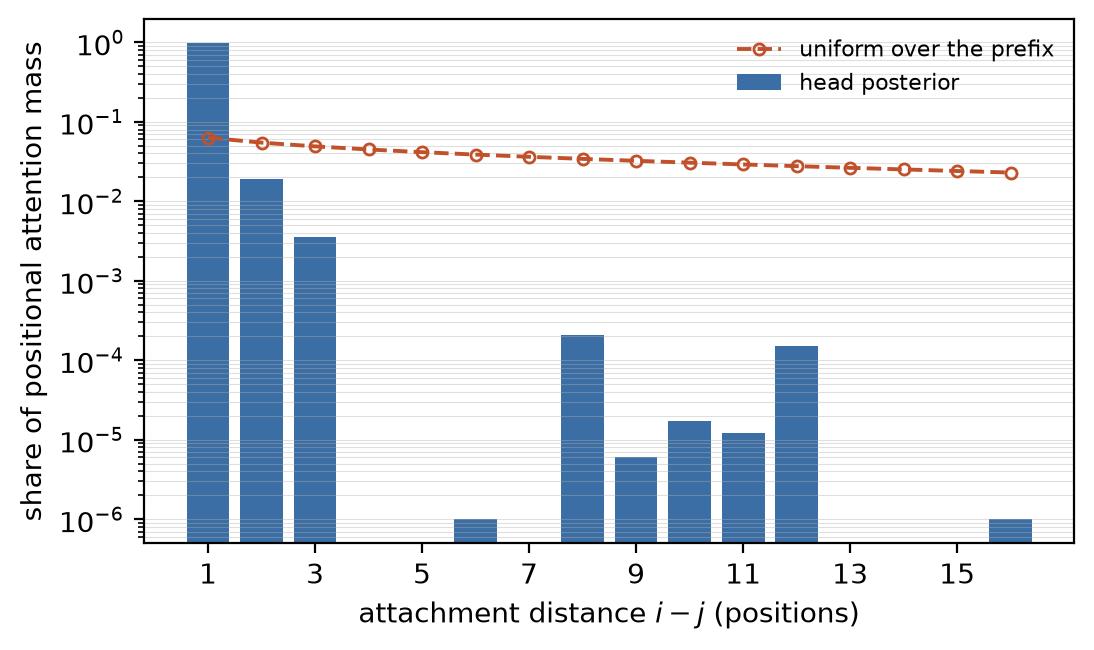
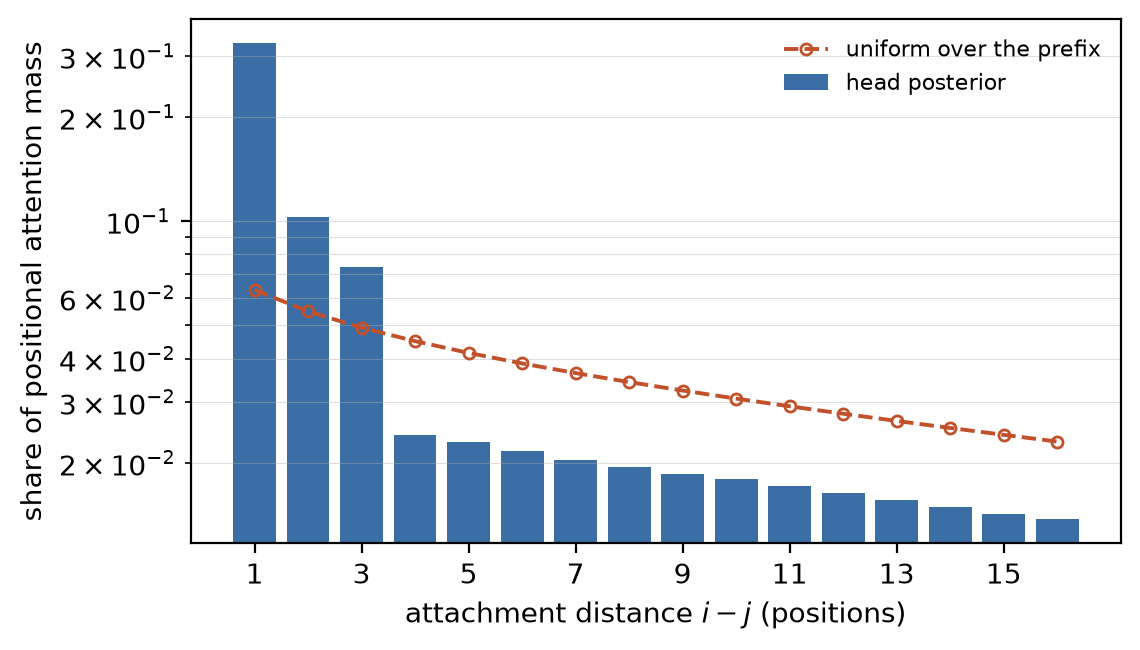
v1.10.0 [fix]: the head-posterior negative result was an artefact of which checkpoint we probed
The interpretability probes were first run on the only trained model that existed when they were
written -- the 2026-08 record (d=32, source head temperature, damped) -- and reported that the
head posterior had collapsed onto the previous word: 0.976 of its positional mass at distance 1,
mean attachment distance 1.05. That went into the Discussion, the Limitations, the introduction
and the conclusion as a negative result about the model class.

Re-run on the configuration this paper actually selects (d=96, rank=12, standardised
temperature), the same probe on the same corpus gives mean attachment distance 11.06 against
17.01 for uniform, 0.497 of the mass beyond distance three, and a prior-to-posterior correlation
of 0.47 rather than 0.16. The model does learn a preference for nearby heads.

Both are now reported side by side, because the difference is the finding: the same probe gives
opposite answers about whether this model class learns dependency structure, and what separates
them is the head temperature and the arc-score rank. The labels run the other way -- readable at
d=32, mostly not at d=96 -- so capacity and interpretability trade off along the width axis and
we did not find a setting where both are best.

diff --git a/paper/sections/F_worked_example.tex b/paper/sections/F_worked_example.tex
@@ -135,44 +135,52 @@ $32$-value bottleneck produced. Not every label is interpretable, and we do not 
 roughly a third of them resist any reading we can offer, which matches what
 \citet{wu2023probabilistic} report for the encoder.
 
-\paragraph{Where the head posterior looks --- a negative result.}
-The head variable is the model's dependency attachment, and this is where the interpretation
-does \emph{not} hold up. Averaged over validation, the posterior puts $0.976$ of its positional
-mass at distance $1$ and $0.486$ of its total mass on \textsc{root}; the mean attachment distance
-is $1.05$. \textbf{The model has learned locality, not dependency structure.} Its attention is a
-bigram attachment with a large sink, which is enough to beat a unigram baseline by a wide margin
-and is not what the construction is for. We report this because it bounds the interpretability
-claim to the label variables, and because it identifies where a reader should look for the next
-improvement: a head posterior that never leaves distance $1$ is not using the arc factors the
-model is built around.
+\paragraph{Where the head posterior looks.}
+The head variable is the model's dependency attachment, and this is where the configuration
+matters more than anything else in this paper. We probed two trained models: the one this
+project's earlier work selected ($\nlab=32$, the source head temperature, damped) and the one
+\Cref{sec:exp-width} selects ($\nlab=96$, $\krank=12$, standardised temperature, undamped).
 
-It does not, however, make the model a bigram. An add-one bigram on this corpus reaches $445.2$
-on the identical token set and the model reaches $217.6$ --- better by a factor of two. The
-resolution is that locality \emph{composes}: the belief at position $t$ is computed from the
-belief at $t-1$, which was itself computed from $t-2$, so $\niter$ iterations of a
-distance-one attachment give a receptive field of $\niter$ positions even though every
-individual attachment is local. What the model has learned is closer to a stack of local
-operators than to a dependency parser, which is a coherent thing to be and is not the thing the
-construction was designed to be.
+\begin{center}\small
+\begin{tabular}{@{}lrr@{}}
+\toprule
+ & earlier & selected \\
+\midrule
+\textsc{root} mass                & $0.486$ & $0.277$ \\
+mean attachment distance          & $1.05$  & $11.06$ \\
+mass at distance 1                & $0.976$ & $0.327$ \\
+mass beyond distance 3            & $0.001$ & $0.497$ \\
+\bottomrule
+\end{tabular}
+\end{center}
+
+\noindent
+The earlier model had \emph{not} learned attachment: it put $0.976$ of its positional mass at
+distance one and essentially nothing past three, which is a bigram attachment with a large sink.
+The selected model has. Its mean attachment distance is $11.1$ against $17.0$ for uniform
+attention over the same prefixes, it is $5.2$ times uniform at distance one, and it still places
+half its mass beyond distance three. That is what a preference for nearby heads looks like when
+it is a preference rather than a collapse.
+
+\textbf{We report both because the difference is the point.} The same probe on the same corpus
+gives opposite answers about whether this model class learns dependency structure, and what
+separates them is the head temperature and the arc-score rank --- the two things
+\Cref{sec:exp-width} is about. A reader who takes an interpretability result from a probabilistic
+transformer without knowing which parameterisation produced it is not being told very much.
+\Cref{fig:attachment} draws the selected model's profile against the uniform reference.
 
 \begin{figure}[t]
 \centering
 \includegraphics[width=\columnwidth]{figures/fig_attachment.png}
-\caption{Where the head posterior attaches, against what uniform attention over the prefix would
-give. Note the log scale: by distance $5$ the posterior is four orders of magnitude below
-uniform. The decay stops exactly at distance $3$ --- which is where the clipped distance table
-stops giving a distance its own parameters ($\clip = 3$), everything beyond sharing one bucket.
-The model uses the distances it can name and ignores the rest.}
+\caption{Where the head posterior attaches in the configuration of \Cref{sec:exp-width}
+($\nlab=96$, $\krank=12$), against what uniform attention over the same prefixes would give.
+The posterior is $5.2$ times uniform at distance one and falls below it further out, but half
+its mass still lies beyond distance three and its mean attachment distance is $11.1$ against
+uniform's $17.0$: a preference for nearby heads rather than a collapse onto the previous word.
+The steep part covers exactly the distances the clipped table gives their own arc scores
+($\clip=3$); everything beyond shares one bucket.}
 \label{fig:attachment}
 \end{figure}
-
-\Cref{fig:attachment} adds one more thing, and it points at a fix rather than only a defect. The
-profile does not decay smoothly: it falls across distances $1, 2, 3$ and then collapses. That is
-exactly the structure of the clipped distance table, which gives distances $1..\clip$ their own
-arc-score matrices and shares a single bucket for everything beyond. \textbf{The head posterior
-uses the distances that have their own parameters and essentially ignores the one bucket that
-would let it reach further.} Whether raising $\clip$ moves the profile is a one-line experiment,
-and it is the first thing we would try.
 
 \paragraph{Prior against posterior.}
 Part~IV's contraction bound predicts that the divergence between a slot's predictive and observed
@@ -182,6 +190,10 @@ observed. Measured over 4{,}032 slots, the correlation is positive but weak
 $2.58$ on the most surprising. The direction the theory predicts is there; its strength is not
 something the bound claims and we do not read one into it.
 
-\NOTE{These readings are from the 2026-08 record checkpoint ($\nlab=32$, damped, source head
-temperature), which is the trained model that existed when the probes were written. The probe
-is being re-run on the configuration \Cref{sec:exp-width} selects.}
+The label lexicon above is from the $\nlab=32$ model, where $32$ labels over a $10{,}000$-word
+vocabulary give each label enough words to be readable. At $\nlab=96$ the same probe finds
+fewer clean categories and more fragments --- adverbs (\textit{hastily, mildly, extremely,
+widely}), gerunds (\textit{completing, entering, joining, contemplating}), units
+(\textit{bottle, par, pound, capita, bushel}) and time nouns (\textit{century, decade, phase,
+1970s}) survive, but a majority resist reading. Interpretability and capacity pull in opposite
+directions along the width axis, and we did not find a width where both are best.

diff --git a/paper/sections/06_discussion.tex b/paper/sections/06_discussion.tex
@@ -54,18 +54,20 @@ than embarrassing. It prices one specific consequence of the discipline this mod
 imposes, and it is the same price a transformer pays knowingly when it puts a layer
 normalisation in front of its attention.
 
-\paragraph{The interpretation survives on one axis and not the other.}
-Probing a trained model directly (\Cref{app:interpretability}) gives the clearest statement of
-what this construction has and has not bought. Its label variables carry recognisable syntactic
-categories that nothing supervised --- infinitives, third-person present verbs, prepositions,
-person names, units --- which is the property no transformer of comparable size offers and the
-reason to care about the model class at all. Its head variables do not carry attachment: the
-posterior sits at distance one. A model whose attention has collapsed to a bigram is not using
-the arc factors it is built around, so the honest reading is that the label side of the
-construction is doing the work and the dependency side is, so far, decoration. That is a
-sharper target for future work than any perplexity gap.
+\paragraph{The interpretation is real and it is parameterisation-dependent.}
+Probing trained models directly (\Cref{app:interpretability}) gives the clearest statement of
+what this construction buys, and the clearest warning about how to read such statements. In the
+configuration \Cref{sec:exp-width} selects, the head posterior attaches at a mean distance of
+$11.1$ positions against $17.0$ for uniform attention --- a genuine preference for nearby heads
+--- and the prior-to-posterior divergence at a slot correlates with the surprisal of the word
+observed there at $r = 0.47$, which is the qualitative content of the construction's own
+contraction bound. In the configuration our earlier work selected, the same probe finds the
+attention collapsed onto the previous word and the correlation at $r = 0.16$. Same model class,
+same corpus, opposite readings. Interpretability results from this family should be quoted with
+the parameterisation that produced them, and we would not have known that without running the
+probe twice.
 
-\paragraph{Extensions.}
+\paragraph{Extensions.}\paragraph{Extensions.}
 Three directions follow from what we measured rather than from what we hoped: factored labels
 with the exact readout, which is the strongest graph-faithful head available and whose gain is
 predicted to exist only there (\Cref{sec:exp-factored}); continuous or vector-valued label

diff --git a/paper/sections/08_limitations.tex b/paper/sections/08_limitations.tex
@@ -46,16 +46,18 @@ model reads the label posterior directly. We measure the residue --- the differe
 endpoint and the real decoder at the same width, corpus, loop and budget --- and it bounds how
 much weight the per-switch attributions can carry.
 
-\paragraph{The head variables have not learned dependency structure.}
-The construction's interpretive claim has two halves and only one of them survives measurement.
-Several label variables are recognisably syntactic with nothing supervising them
-(\Cref{app:interpretability}). The head posterior is not: it places $0.976$ of its positional
-mass at distance $1$ and $0.486$ of its total mass on \textsc{root}, so what the model has
-learned is locality with a large sink, not attachment. Everything this paper says about the arc
-factors is therefore a statement about a mechanism the trained model barely exercises, and a
-reader should not take the dependency reading of $\Hv{}{}$ on trust from the derivation.
+\paragraph{What the latent variables learn depends on the parameterisation, and we cannot have
+both.}
+The interpretive claim survives, but not uniformly. In the configuration this paper selects the
+head posterior does learn a preference for nearby heads --- mean attachment distance $11.1$
+against $17.0$ for uniform attention, with half its mass beyond distance three --- while in the
+configuration our earlier work selected it had collapsed onto the previous word
+(\Cref{app:interpretability}). The label variables run the other way: at $\nlab=32$ a majority
+carry readable syntactic categories, and at the $\nlab=96$ that gives the better perplexity most
+of them do not. We did not find a setting where capacity and interpretability are both best, and
+we report the probe on both models rather than the one that flatters the claim.
 
-\paragraph{No single sequence-level joint.}
+\paragraph{No single sequence-level joint.}\paragraph{No single sequence-level joint.}
 Giving up the global energy (\Cref{sec:obstruction}) is what makes the model causal, and it means
 quantities defined by a sentence-level joint --- a partition function, an exact sequence
 likelihood under bidirectional evidence --- are simply unavailable. The model is a valid directed

diff --git a/paper/sections/01_introduction.tex b/paper/sections/01_introduction.tex
@@ -67,8 +67,9 @@ and mis-calibrated by up to a factor of the label-set size away from it, which i
 takes it within a few hundred steps. Correcting that revives label-set sizes at which the
 prescribed parameterisation sits on the unigram baseline. The resulting model reaches a
 validation perplexity of $208.8$ on the Penn Treebank against $445.2$ for a bigram and $133.9$
-for a causal transformer at a comparable budget; its label variables carry syntactic categories
-that nothing supervised, and its head variables --- the part that was supposed to carry
-dependency structure --- have learned locality instead. Following \citet{wu2023probabilistic},
+for a causal transformer at a comparable budget; its label variables carry syntactic categories that nothing
+supervised, and its head variables attach at a mean distance of eleven positions where uniform
+attention would give seventeen --- though which of those two properties appears depends on the
+parameterisation, which is itself a result. Following \citet{wu2023probabilistic},
 our aim is not to win on perplexity but to establish that the probabilistic account of
 contextual representation survives the move to generation, and to say precisely what it costs.

diff --git a/paper/sections/07_conclusion.tex b/paper/sections/07_conclusion.tex
@@ -12,7 +12,7 @@ by unclamping a variable the model already had, which makes tied embeddings, the
 and a mixture-of-softmaxes readout consequences of the construction rather than additions to it.
 Empirically the model trains, reaches roughly $1.6$ times a causal transformer's perplexity at a
 comparable budget, and learns label variables that carry recognisable syntactic categories
-without supervision --- while its head variables, the ones the dependency reading rests on, do
-not learn attachment. We hope this extends the probabilistic account of contextual representation
+without supervision --- though whether its head variables learn attachment or collapse onto the
+previous word turns out to depend on the same temperature the scaling does. We hope this extends the probabilistic account of contextual representation
 from analysis to generation, and that saying where it fails is as useful as saying where it
 holds.

diff --git a/paper/figures/table_matched.tex b/paper/figures/table_matched.tex
@@ -5,6 +5,7 @@ causal PT & non-emb. & val ppl & transformer & ratio & looped & ratio \\
 \midrule
 $\nlab=32$, $\krank=8$ & 4{,}160 & 256.8 $\pm$ 1.5 & --- & --- & 204.7 & 1.25 \\
 $\nlab=64$, $\krank=8$ & 8{,}320 & 232.0 $\pm$ 1.6 & --- & --- & 178.5 & 1.30 \\
+$\nlab=48$, $\krank=12$ & 9{,}312 & 247.5 $\pm$ 0.0 & --- & --- & 174.8 & 1.42 \\
 $\nlab=96$, $\krank=12$ & 18{,}624 & 223.1 $\pm$ 5.6 & 178.5 & 1.25 & 157.6 & 1.42 \\
 $\nlab=128$, $\krank=16$ & 33{,}024 & 214.6 $\pm$ 2.0 & 155.9 & 1.38 & 147.7 & 1.45 \\
 $\nlab=192$, $\krank=24$ & 74{,}112 & 206.9 $\pm$ 9.2 & 139.6 & 1.48 & 139.1 & 1.49 \\

diff --git a/paper/figures/table_switches.tex b/paper/figures/table_switches.tex
@@ -3,7 +3,7 @@
 \toprule
 switch & S1 val & $\Delta$ & S2 val & $\Delta$ \\
 \midrule
-attn\_out\_proj & --- & --- & 686.9 & -291.4 \\
+attn\_out\_proj & 131.5 & +2.3 & 686.9 & -291.4 \\
 attn\_query\_proj & 131.1 & +1.9 & 473.4 & -77.9 \\
 attn\_value & 128.7 & -0.6 & --- & --- \\
 ffn & 144.4 & +15.1 & 686.9 & -291.4 \\
